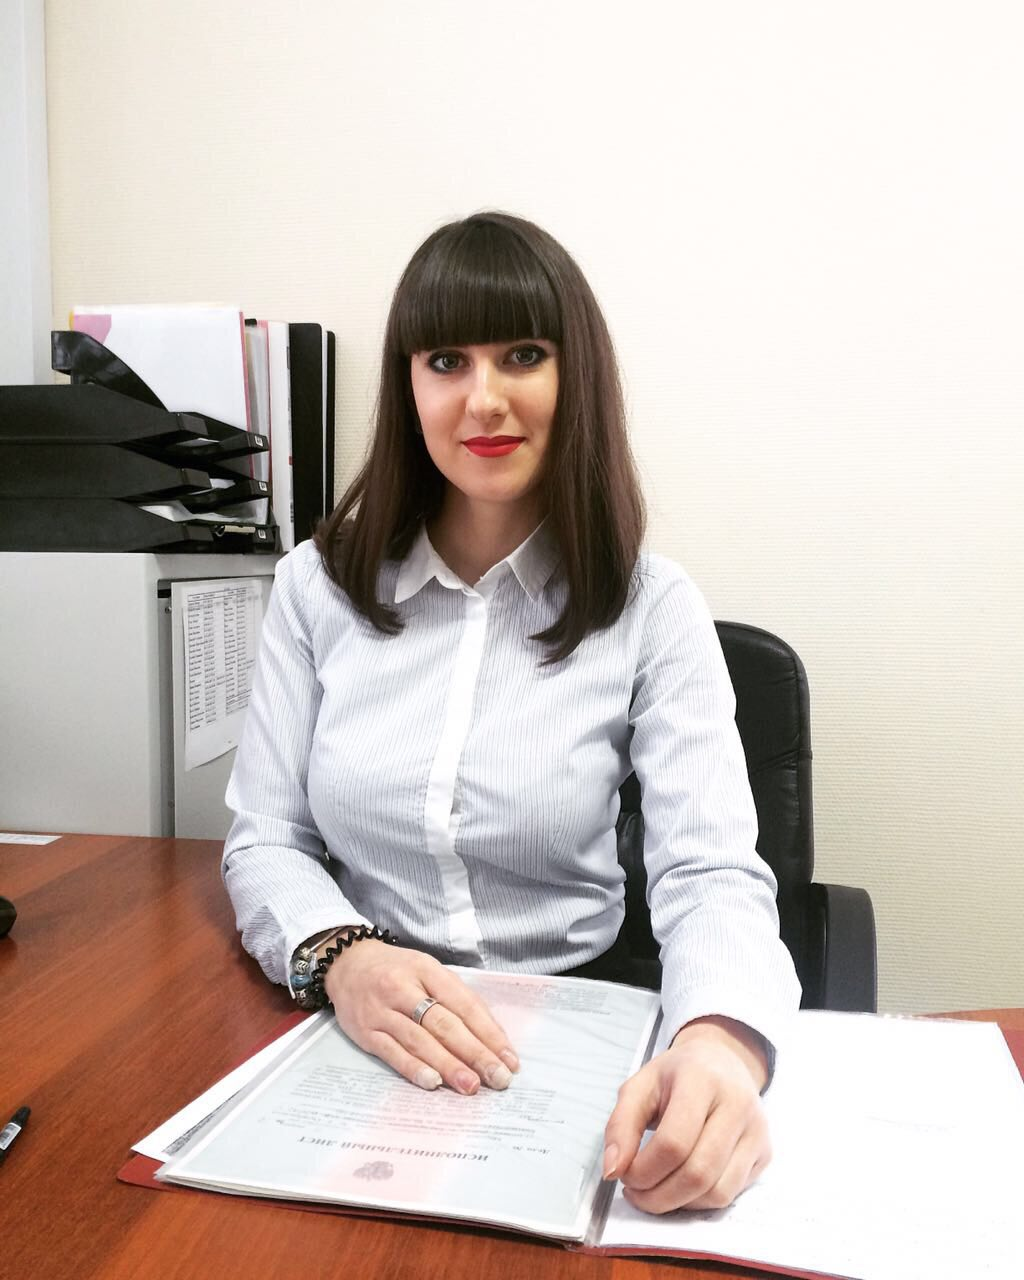
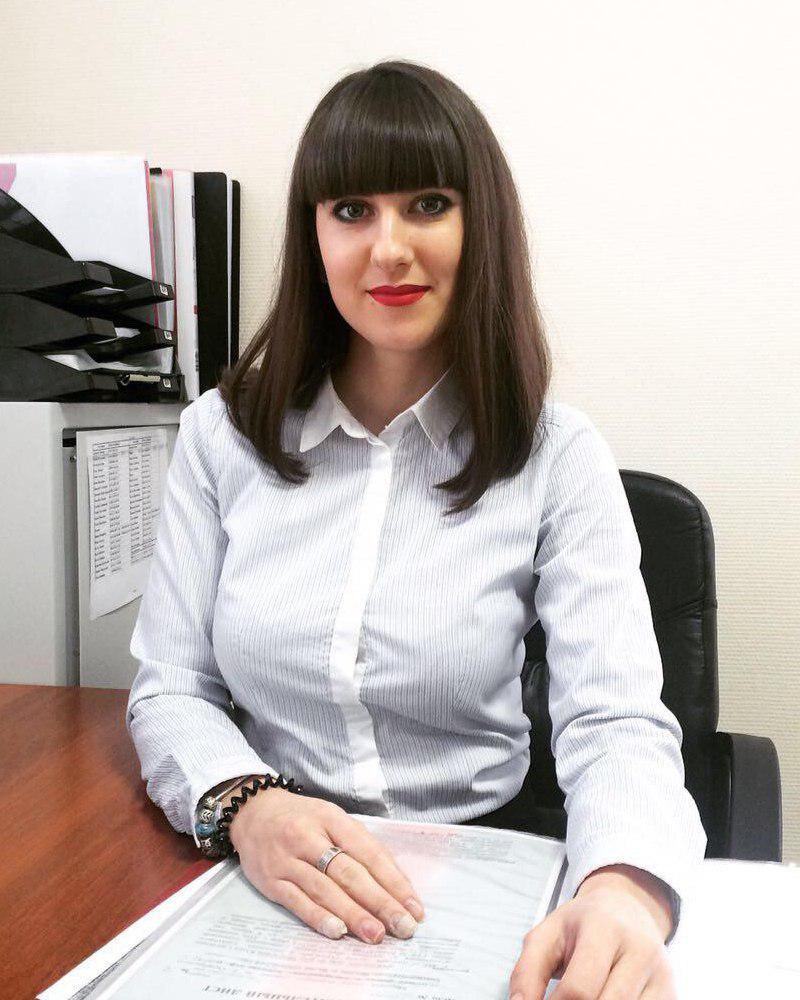
fix image

diff --git a/style/style.css b/style/style.css
@@ -355,7 +355,7 @@ transform: rotate(-45deg);
 
 .l-personal__item{
   max-width: 318px;
-  height: 318px;
+  height: 395px;
 }
 
 .l-personal__item-wrap{
@@ -366,38 +366,31 @@ transform: rotate(-45deg);
 
 .l-personal__pers-1{
   background-image: url("../image/pers-1.jpg");
-  background-size: 106%;
-  background-position-x: -20px;
+  background-size: 100%;
 }
 
 .l-personal__pers-2{
   background-image: url("../image/pers-2.jpg");
-  background-size: 106%;
-  background-position-x: -20px;
-  background-position-y: -30px;
+  background-size: 100%;
 }
 
 .l-personal__pers-3{
   background-image: url("../image/pers-3.jpg");
-  background-position-x: -4px;
-  background-size: 110%;
-  background-position-y: -17px;
+  background-size: 100%;
 }
 
 .l-personal__pers-4{
   background-image: url("../image/pers-4.jpg");
-  background-position-x: -50px;
-  background-size: 140%;
+  background-size: 100%;
 }
 
 .l-personal__pers-5{
   background-image: url("../image/pers-5.jpg");
-  background-size: 115%;
+  background-size: 105%;
 }
 
 .l-personal__pers-6{
   background-image: url("../image/pers-6.jpg");
-  background-position-y: -45px;
   background-size: 100%;
 }
 
@@ -1615,7 +1608,7 @@ hr {
 .l-price__hr{
   margin-top: 5px;
   margin-bottom: 5px;
-  color: grey
+  color: grey;
 }
 
 textarea {
